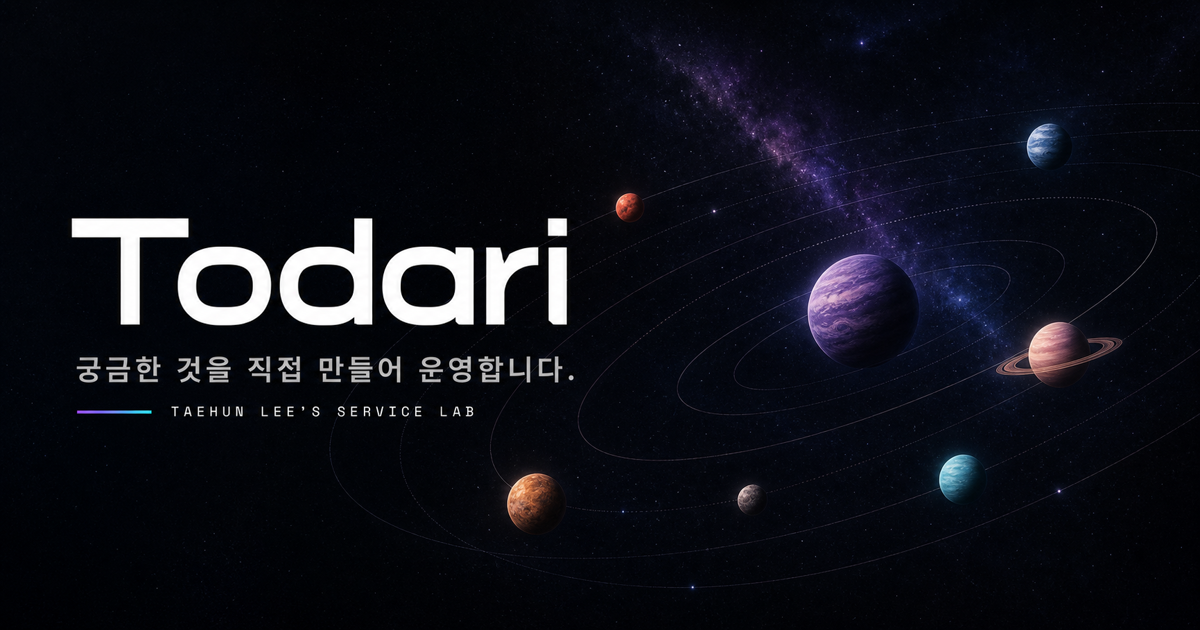
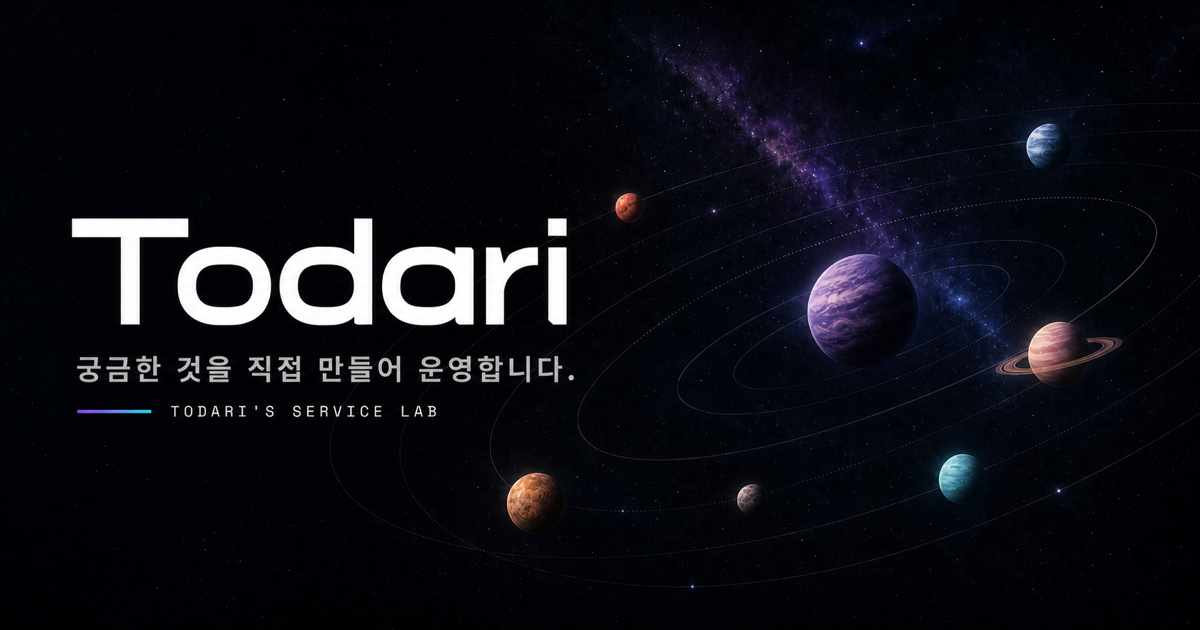
feat: center public identity on Todari

diff --git a/src/components/MakerProfile.tsx b/src/components/MakerProfile.tsx
@@ -101,7 +101,7 @@ export default function MakerProfile() {
         <div className="grid gap-10 lg:grid-cols-[1.15fr_.85fr] lg:gap-20">
           <div>
             <p className="mb-5 font-mono text-xs tracking-[0.28em] text-cyan-300">
-              ABOUT TAEHUN
+              ABOUT TODARI
             </p>
             <h2
               id="about-heading"
@@ -118,7 +118,7 @@ export default function MakerProfile() {
           <div className="self-end">
             <p className="text-lg font-medium leading-8 text-white/85 md:text-xl">
               안녕하세요. 서비스 기획자로 첫 커리어를 시작해 디자인과
-              프론트엔드를 익혀 개발자가 된 이태훈입니다.
+              프론트엔드를 익혀 개발자가 된 Todari입니다.
             </p>
             <p className="mt-5 text-base leading-7 text-[var(--text-secondary)]">
               서로 다른 분야의 지식을 빠르게 연결하고, 낯선 문제에도 필요한

diff --git a/src/app/layout.tsx b/src/app/layout.tsx
@@ -7,7 +7,7 @@ import { services } from "@/data/services";
 const SITE_URL = "https://todari.dev";
 const SITE_NAME = "Todari";
 const DESCRIPTION =
-  "서비스 기획에서 시작해 UI/UX와 프론트엔드를 익히고, AI로 학습과 실행의 폭을 넓혀 문제를 제품으로 해결하는 프로덕트 엔지니어 이태훈입니다.";
+  "서비스 기획에서 시작해 UI/UX와 프론트엔드를 익히고, AI로 학습과 실행의 폭을 넓혀 문제를 제품으로 해결하는 프로덕트 엔지니어 Todari입니다.";
 
 const geistSans = Geist({
   variable: "--font-geist-sans",
@@ -104,8 +104,7 @@ const jsonLd = {
     {
       "@type": "Person",
       "@id": `${SITE_URL}/#person`,
-      name: "Taehun Lee",
-      alternateName: "Todari",
+      name: SITE_NAME,
       jobTitle: "Product Engineer",
       description: DESCRIPTION,
       email: "mailto:rhymint@gmail.com",

diff --git a/src/components/SolarSystem.tsx b/src/components/SolarSystem.tsx
@@ -872,7 +872,7 @@ export default function SolarSystem() {
         {/* Hero */}
         <div className="pointer-events-none absolute inset-0 flex flex-col items-center justify-center px-5 text-center" style={{ opacity: heroOpacity }}>
           <p className="mb-5 font-mono text-[10px] tracking-[0.3em] text-white/45 md:text-xs">
-            TAEHUN LEE · PRODUCT ENGINEER
+            PRODUCT ENGINEER · SERVICE BUILDER
           </p>
           <h1 className="gradient-text mb-6 text-6xl font-bold tracking-[-0.06em] md:text-8xl">
             Todari

diff --git a/README.md b/README.md
@@ -1,6 +1,6 @@
 <div align="center">
 
-<img src="https://capsule-render.vercel.app/api?type=waving&color=0:070711,50:15112b,100:071b25&height=150&section=header&text=Todari&fontColor=ffffff&fontSize=52&fontAlignY=38&desc=TAEHUN%20LEE%20%C2%B7%20PRODUCT%20ENGINEER&descAlignY=62&descSize=13" width="100%" alt="" />
+<img src="https://capsule-render.vercel.app/api?type=waving&color=0:070711,50:15112b,100:071b25&height=150&section=header&text=Todari&fontColor=ffffff&fontSize=52&fontAlignY=38&desc=PRODUCT%20ENGINEER%20%C2%B7%20SERVICE%20BUILDER&descAlignY=62&descSize=13" width="100%" alt="" />
 
 ### 기획에서 시작해, 필요한 기술을 배우며 문제를 제품으로 해결합니다.
 
